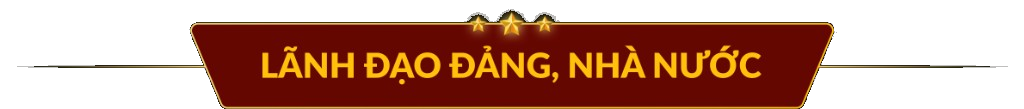
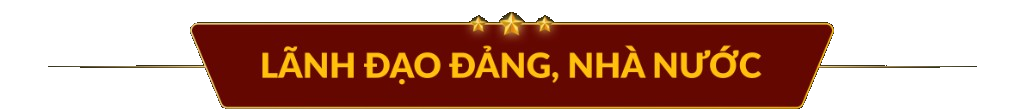
Sd

Changed region(s): [[0.4375, 0.0826, 0.5625, 0.2202], [0.8438, 0.578, 1.0, 0.633], [0.0, 0.578, 0.125, 0.633]]

diff --git a/src/app/page.tsx b/src/app/page.tsx
@@ -64,9 +64,10 @@ export default function HomePage() {
             <div className="exhibition-board">
               {topTier.length > 0 && (
                 <>
-                  <div className="exhibition-group-label exhibition-group-label-party">
-                    LÃNH ĐẠO ĐẢNG, NHÀ NƯỚC
-                  </div>
+                  <div
+                    className="exhibition-group-label exhibition-group-label-party"
+                    aria-label="Lãnh đạo Đảng, Nhà nước"
+                  />
                   <section
                     aria-label="Lãnh đạo Đảng, Nhà nước"
                     className="exhibition-row exhibition-row-top"
@@ -84,9 +85,10 @@ export default function HomePage() {
 
               {bottomTier.length > 0 && (
                 <>
-                  <div className="exhibition-group-label exhibition-group-label-ministry">
-                    LÃNH ĐẠO BỘ CÔNG AN
-                  </div>
+                  <div
+                    className="exhibition-group-label exhibition-group-label-ministry"
+                    aria-label="Lãnh đạo Bộ Công an"
+                  />
                   {ministryRows.map((row, index) =>
                     row.length > 0 ? (
                       <section
